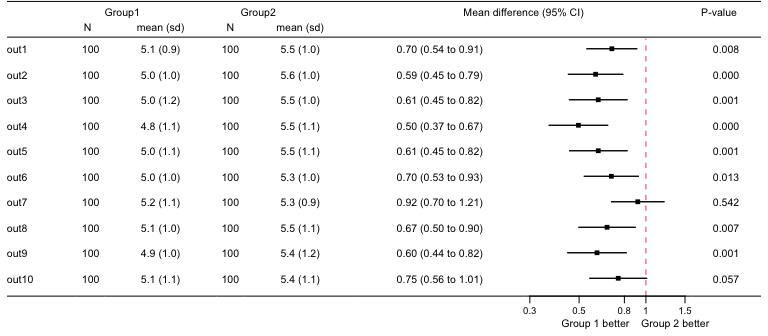
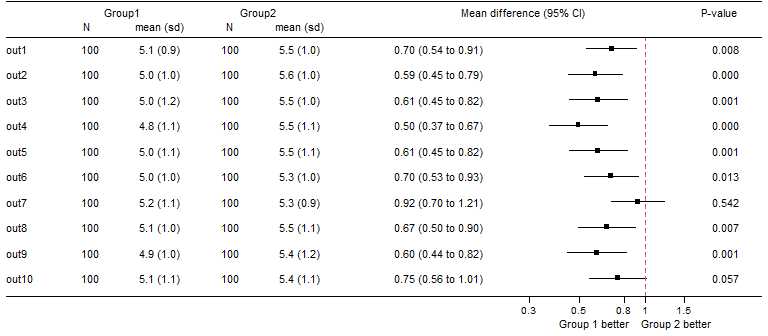
set seed for pointplot

diff --git a/README.md b/README.md
@@ -157,6 +157,7 @@ fplot(dat=forplotdata,header=header,lwidths=lwidths,lheights=lheights,
 The points of the forest plots can also be formatted.
 
 ``` r
+set.seed(1345)
 ps<-list(pch=16,cex=rnorm(10,2,0.2),col=1)
 
 fplot(dat=forplotdata,header=header,lwidths=lwidths,lheights=lheights,
